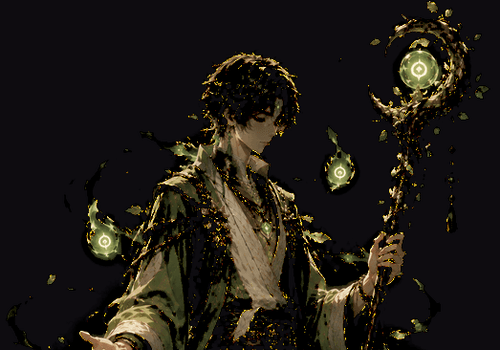
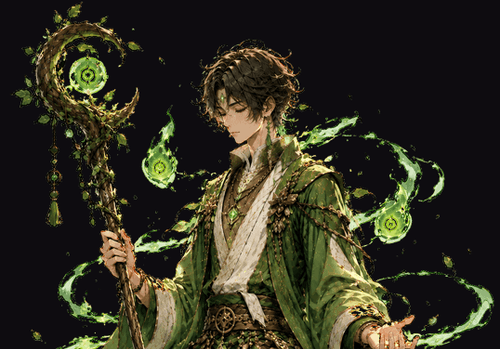
Re-shoot Orin with fresh reference art (5th hero, same pipeline)
Same treatment as Sorrow, Cragor, Kharos, and Zera before him: fresh
white-background reference art, keyed with the white-bg pipeline,
decontamination checked against black/white test backgrounds first
(clean on both, kept for richer color), then the hard alpha snap
already proven on the last three heroes.

Deliberately did NOT flip him this time. His reference has the staff
on the left — the same side §9.36 flipped him away from, generalizing
Torrent's claw-arm convention to a pose it didn't actually apply to.
§9.37 already reversed that exact call for Kharos once his reference
made the intended orientation clear; this is the same lesson landing a
second time, this time applied proactively rather than after a
complaint — the reference art is authoritative over any inferred
weapon-arm-faces-the-enemy rule, which was only ever a guess for
static/seated poses without a real body-orientation tell.

Verified via Playwright in a practice match against the real
battlefield background: Orin reads as fully solid and richly colored;
zero console errors. Full pipeline (tsc -b, oxlint, 75-test Vitest
suite, vite build, cap sync android) passes. sharp was a temporary
--no-save dev dependency, uninstalled after use.

diff --git a/DESIGN.md b/DESIGN.md
@@ -2702,3 +2702,32 @@ read as fully solid and richly colored, not translucent; zero console
 errors. Full pipeline (`tsc -b`, `oxlint`, 75-test Vitest suite,
 `vite build`, `cap sync android`) passes. `sharp` was a temporary
 `--no-save` dev dependency, uninstalled after use.
+
+### 9.39 Orin gets the same re-shoot, and the §9.36 flip lesson holds
+
+Fifth hero re-shot from fresh reference art (after Sorrow, Cragor,
+Kharos, Zera) — same request, same pipeline: white-background key
+(distance-from-white ramp), decontamination checked against both
+black and white test backgrounds first (clean on both this time — his
+green wisps are edge-defined rather than Kharos-style diffuse glow, so
+kept it for the richer color), then the hard alpha snap (≥30 → fully
+opaque) already proven on the last three heroes.
+
+**No flip, deliberately** — and this is the interesting part. Orin's
+own reference has his staff on the *left*, the same side §9.36 flipped
+him to *away from*, generalizing the Torrent claw-arm convention to a
+character where it didn't apply. §9.37 already reversed that call for
+Kharos once his own reference made the intended orientation obvious;
+this section is the same lesson landing a second time, this time
+before a complaint rather than after one — the reference art is simply
+authoritative over any inferred "weapon arm faces the enemy" rule, and
+that rule was never more than a guess to begin with for static/seated
+poses without a genuine body-orientation tell (contrast Torrent, an
+actually-lunging wave-creature, where it held up).
+
+Verified via Playwright in a practice match against the real
+battlefield background: Orin (rendered on the enemy side this run,
+mirrored correctly) reads as fully solid and richly colored; zero
+console errors. Full pipeline (`tsc -b`, `oxlint`, 75-test Vitest
+suite, `vite build`, `cap sync android`) passes. `sharp` was a
+temporary `--no-save` dev dependency, uninstalled after use.
